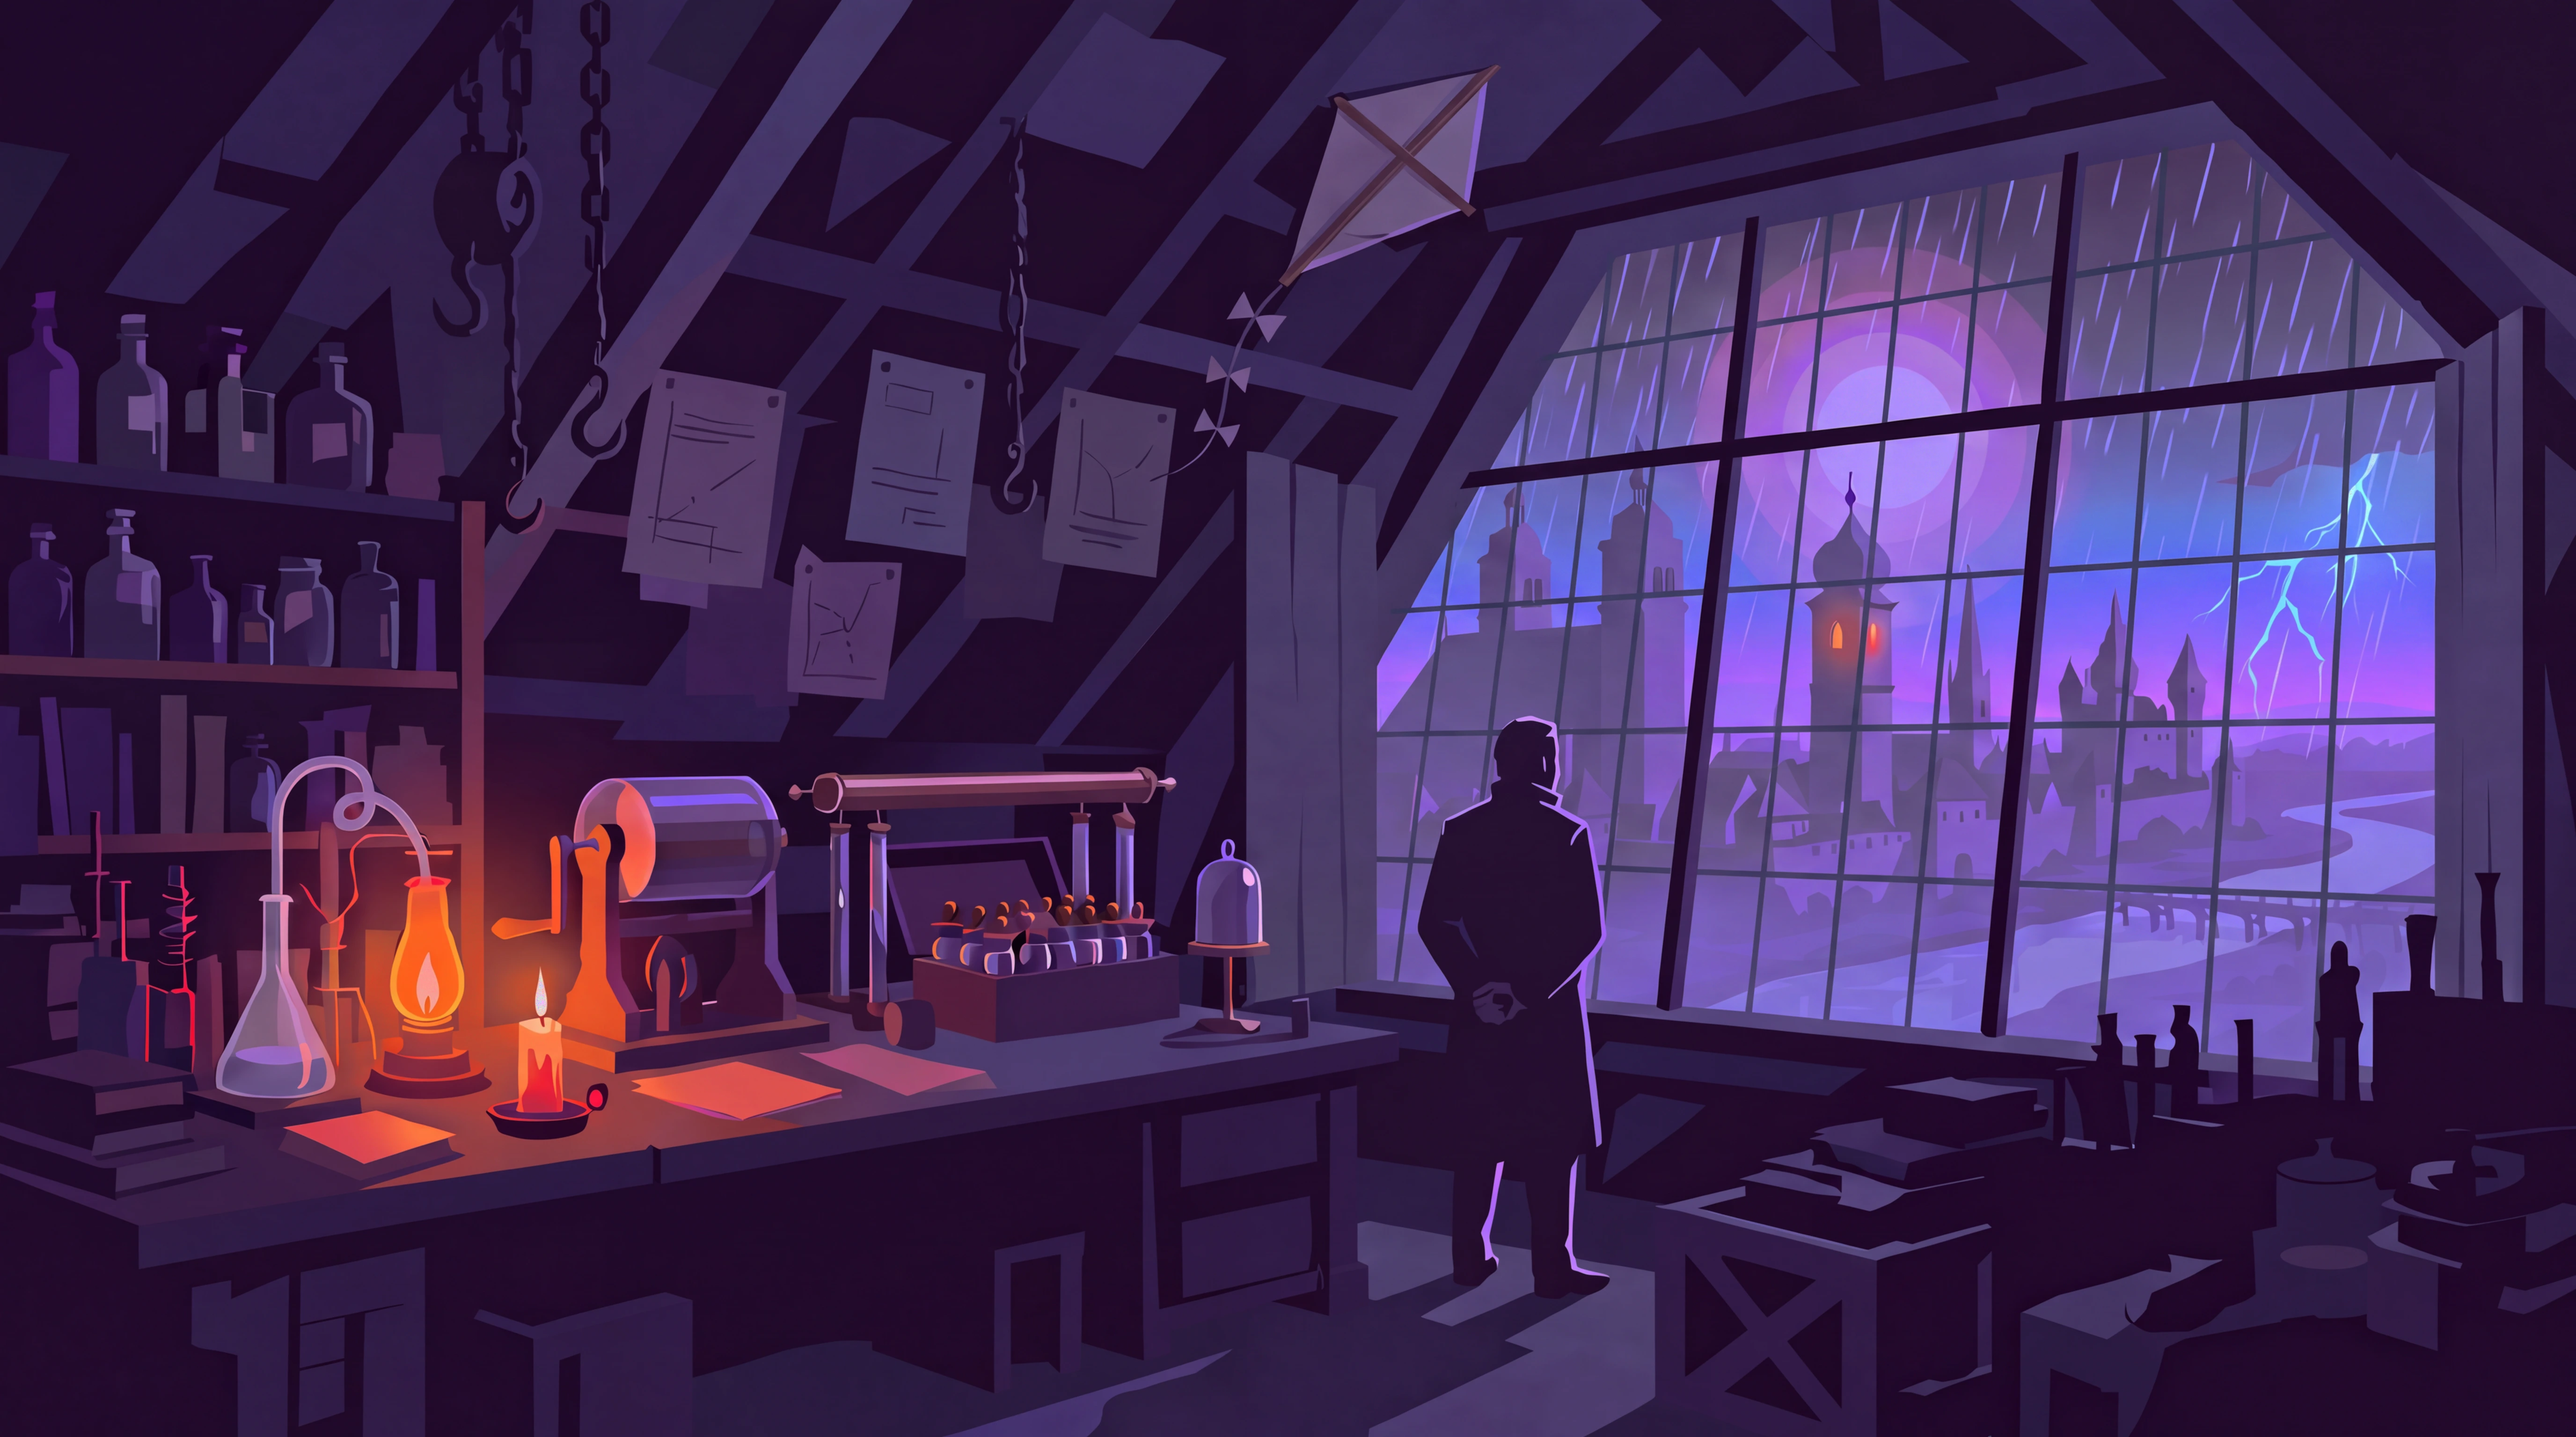
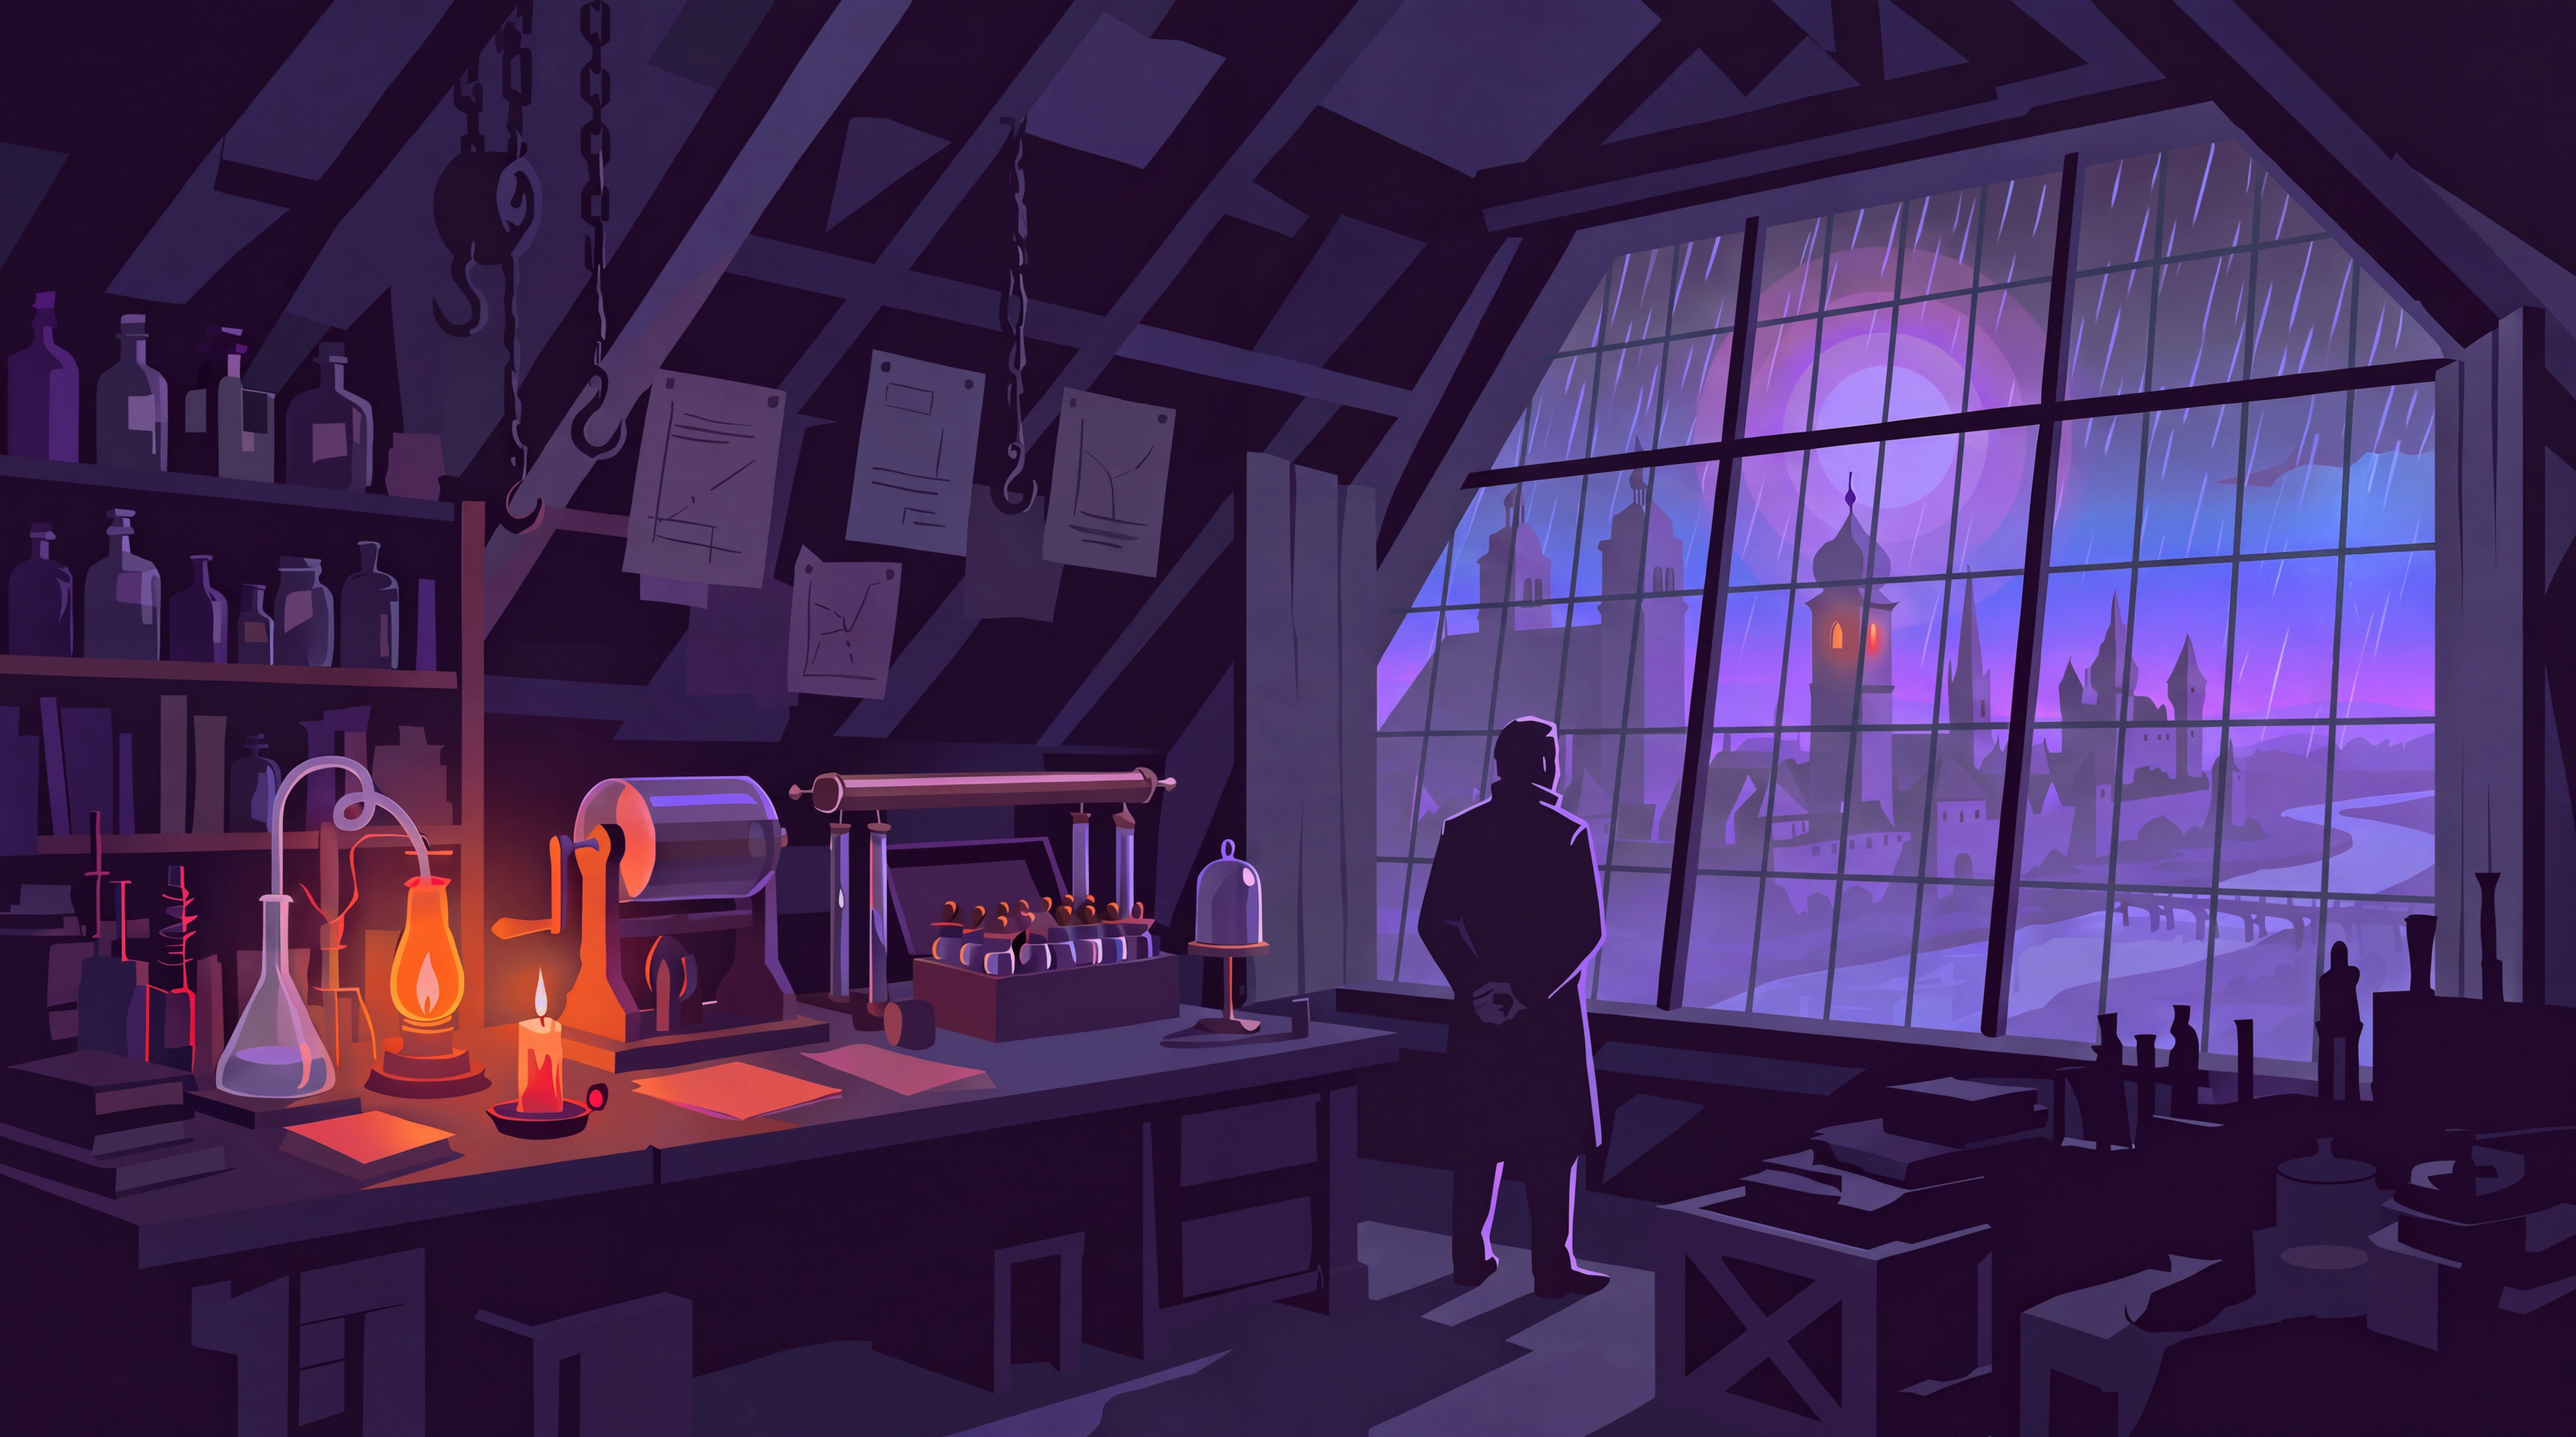
Attic true to the book: remove kite and lightning (neither is in the novel)
Claude-Session: https://claude.ai/code/session_019StYgL2nZdkjhMKLr5cHyA

Changed region(s): [[0.5, 0.0312, 0.5938, 0.1875], [0.875, 0.3438, 0.9375, 0.4688], [0.4688, 0.1875, 0.5, 0.3125]]

diff --git a/README.md b/README.md
@@ -4,7 +4,7 @@
 
 > Ingolstadt, November 1792. One in the morning. Rain on the attic panes, the candle nearly burnt out. Victor Frankenstein has built everything he can. The rest has to come from the storm. AI and Omarchy put the laboratory in our hands. So build. Experiment.
 
-An Omarchy theme in plum night, moonlit lavender, candle amber and lightning cyan, sampled from the painting.
+An Omarchy theme in plum night, moonlit lavender and candle amber, sampled from the painting.
 
 ## Backgrounds
 
